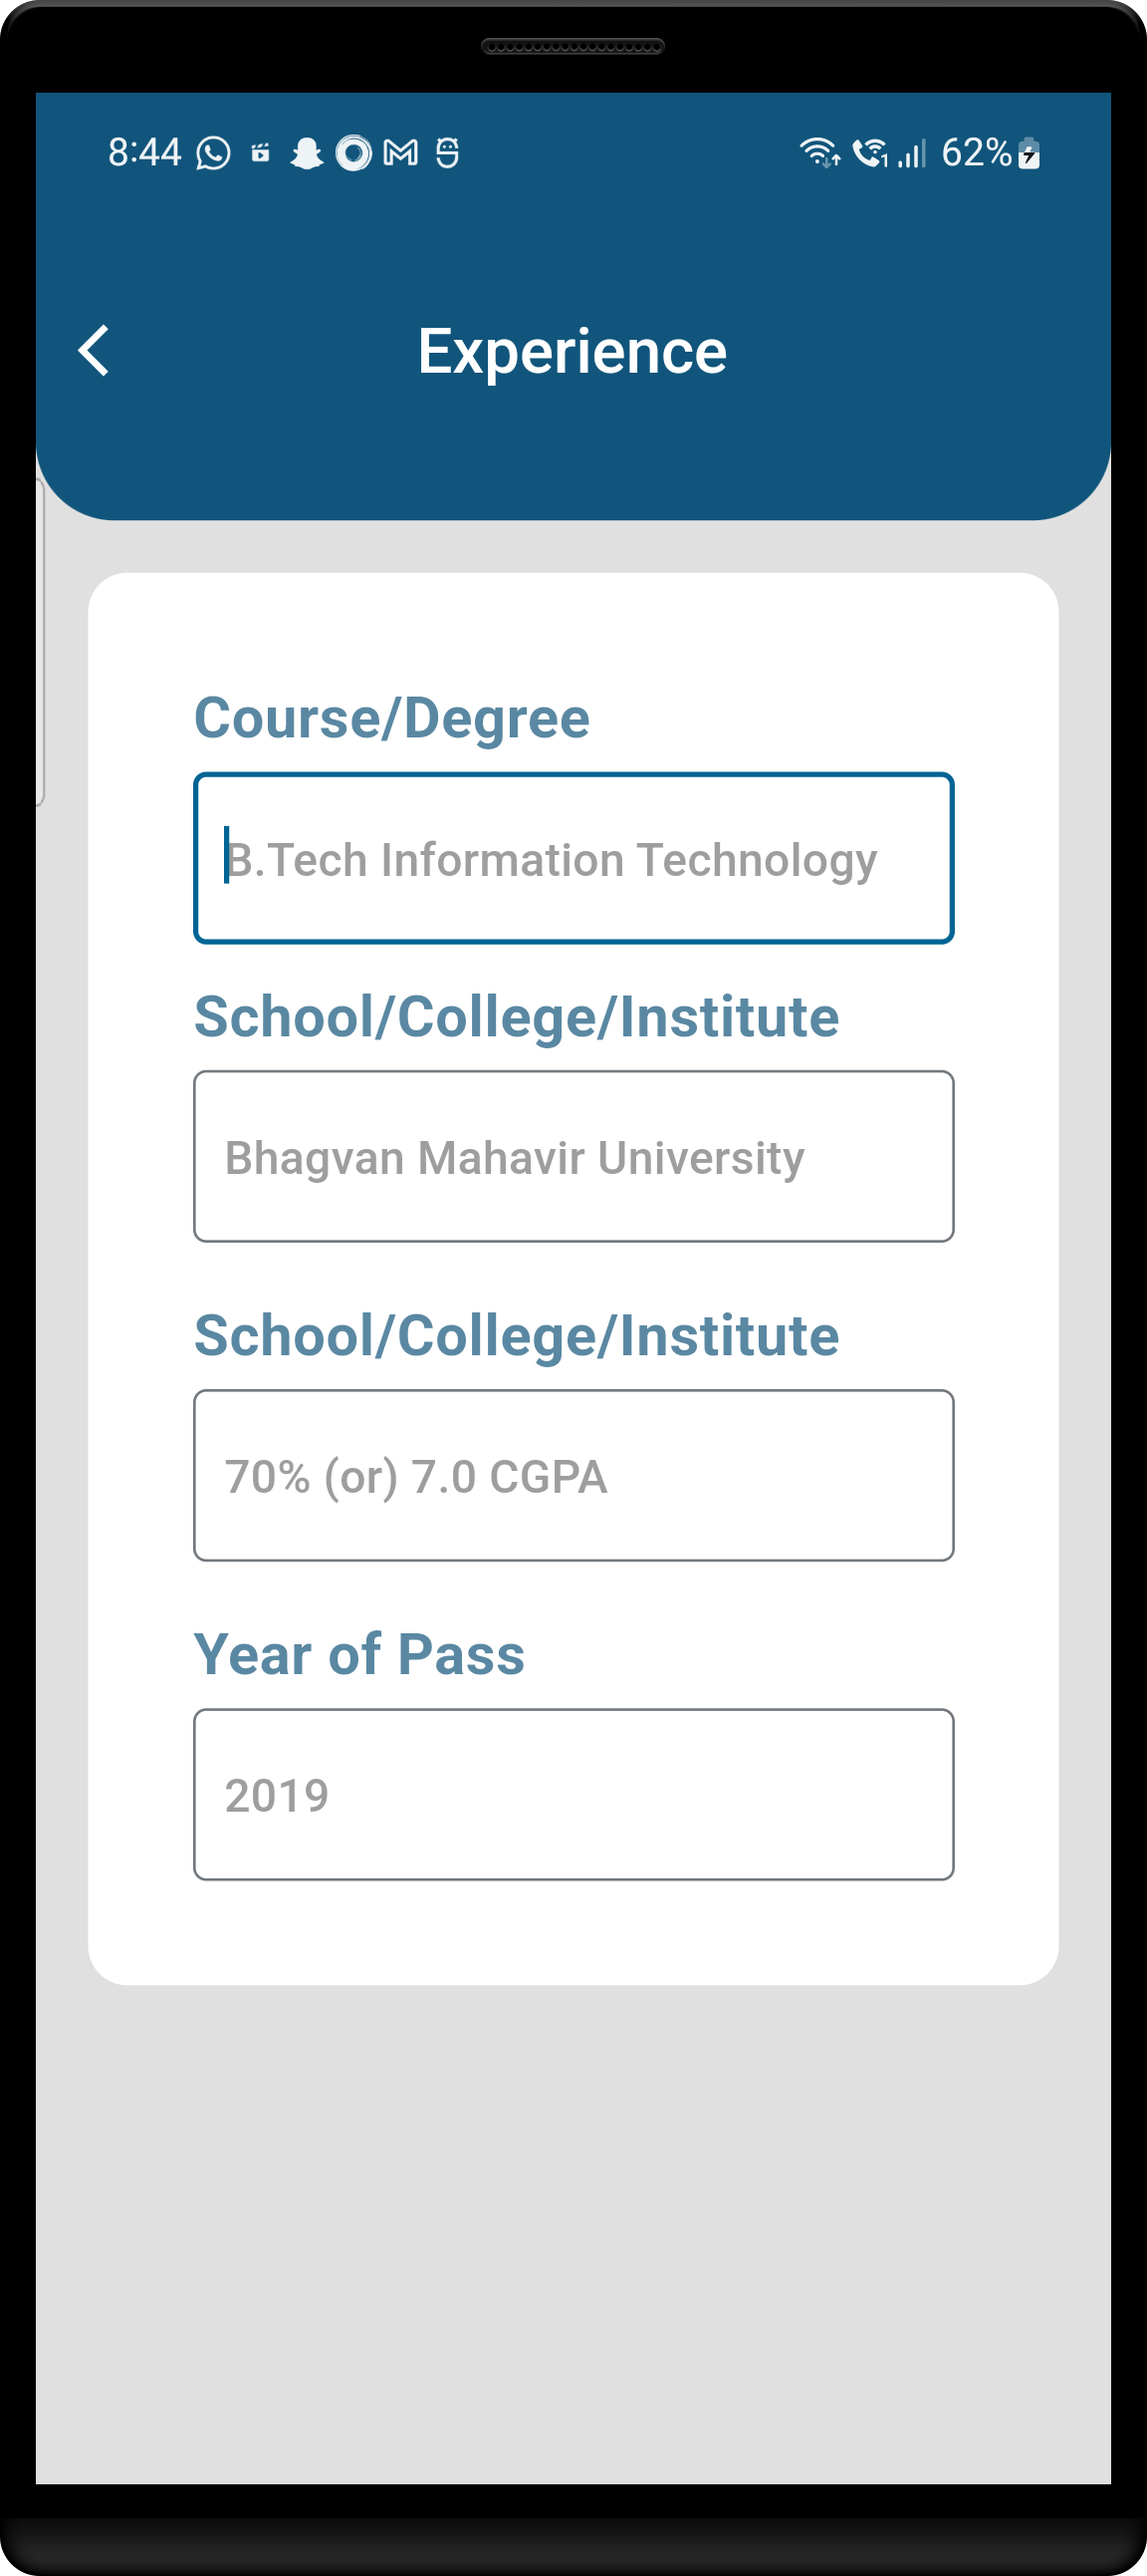
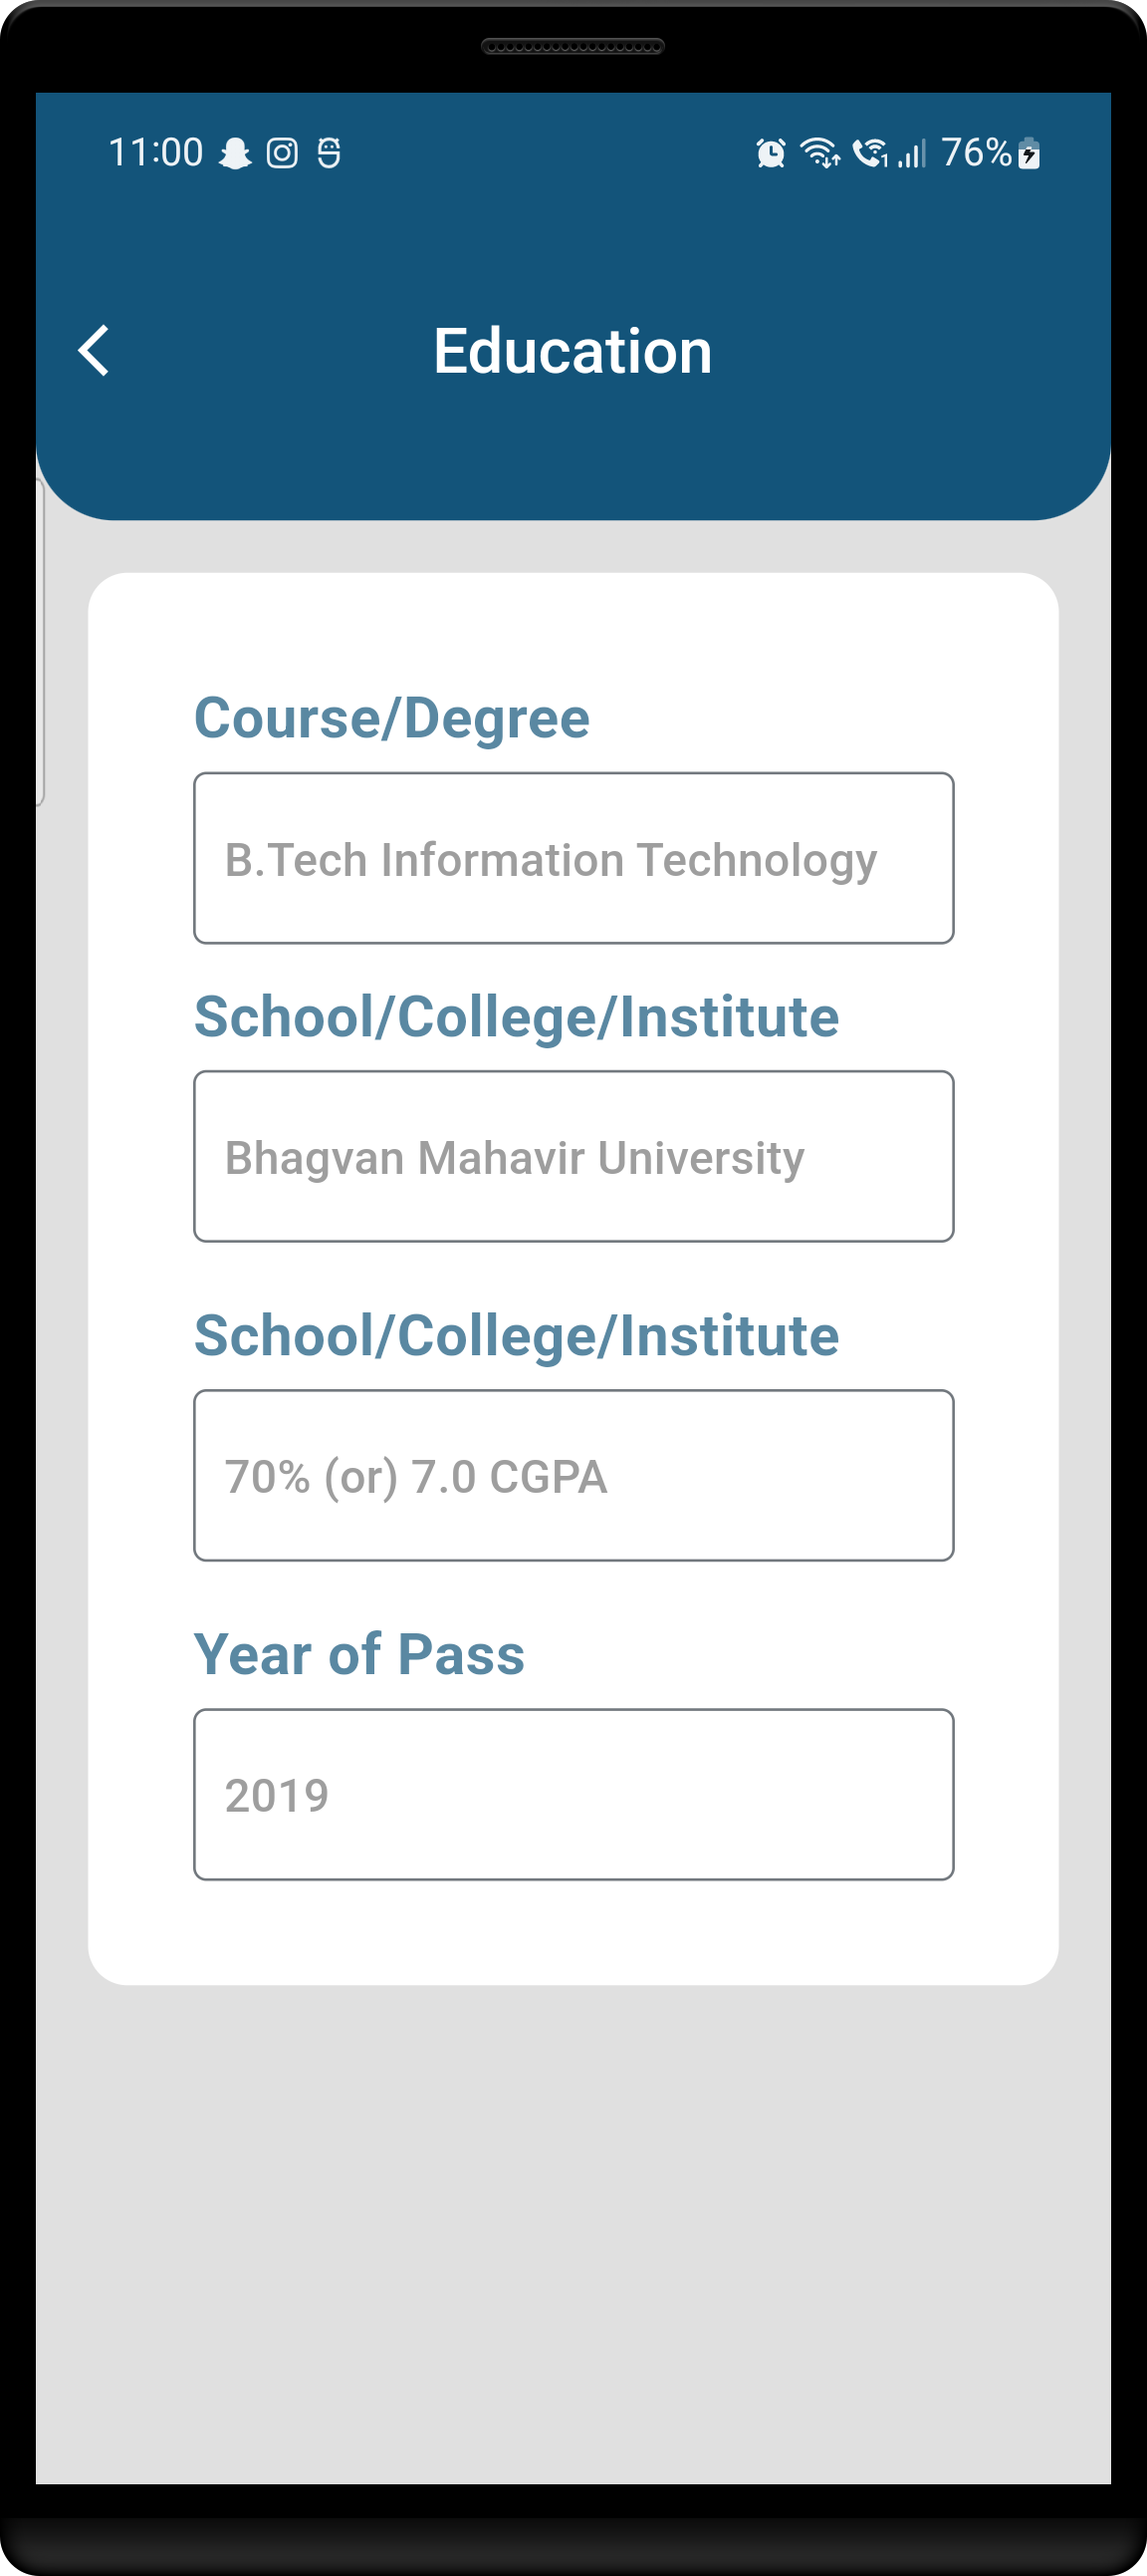
KK | 25/04/2023 | Achievment page updated & pdf page updated

diff --git a/lib/views/screens/pdfPage.dart b/lib/views/screens/pdfPage.dart
@@ -26,45 +26,71 @@ class _pdf_pageState extends State<pdf_page> {
           height: double.infinity,
           width: double.infinity,
           alignment: pw.Alignment.center,
-          child: pw.Column(
-            mainAxisSize: pw.MainAxisSize.min,
+          child: pw.Row(
             children: [
-              pw.Container(
-                height: 250,
-                width: 250,
-                decoration: pw.BoxDecoration(
-                  shape: pw.BoxShape.circle,
-                  image: pw.DecorationImage(
-                    image: pw.MemoryImage(
-                      File(global.image!.path).readAsBytesSync(),
+              pw.Expanded(
+                flex: 1,
+                child: pw.Container(
+                  color: PdfColor.fromInt(0xff13547A),
+                  child: pw.Padding(
+                    padding: pw.EdgeInsets.all(10),
+                    child: pw.Column(
+                      mainAxisAlignment: pw.MainAxisAlignment.start,
+                      children: [
+                        pw.SizedBox(
+                          height: 15,
+                        ),
+                        pw.Container(
+                          height: 125,
+                          width: 125,
+                          decoration: pw.BoxDecoration(
+                            shape: pw.BoxShape.circle,
+                            image: pw.DecorationImage(
+                              image: pw.MemoryImage(
+                                File(global.image!.path).readAsBytesSync(),
+                              ),
+                            ),
+                          ),
+                        ),
+                        pw.SizedBox(
+                          height: 25,
+                        ),
+                        pw.Row(
+                          children: [
+                            pw.SizedBox(
+                              height: 10,
+                            ),
+                            pw.Expanded(
+                              child: pw.Text(
+                                "Name:",
+                                style: pw.TextStyle(
+                                  fontSize: 18,
+                                  color: PdfColors.white,
+                                  fontWeight: pw.FontWeight.bold,
+                                ),
+                              ),
+                            ),
+                            pw.Expanded(
+                              flex: 2,
+                              child: pw.Text(
+                                global.name!,
+                                style: pw.TextStyle(
+                                  fontSize: 16,
+                                  color: PdfColors.white,
+                                  fontWeight: pw.FontWeight.bold,
+                                ),
+                              ),
+                            ),
+                          ],
+                        ),
+                      ],
                     ),
                   ),
                 ),
               ),
-              pw.SizedBox(
-                height: 20,
-              ),
-              pw.SizedBox(
-                width: 300,
-                child: pw.Row(
-                  mainAxisAlignment: pw.MainAxisAlignment.spaceBetween,
-                  children: [
-                    pw.Text(
-                      "Name :",
-                      style: pw.TextStyle(
-                        fontSize: 28,
-                        color: PdfColors.red,
-                      ),
-                    ),
-                    pw.Text(
-                      global.name!,
-                      style: pw.TextStyle(
-                        fontSize: 28,
-                        color: PdfColors.red,
-                      ),
-                    ),
-                  ],
-                ),
+              pw.Expanded(
+                flex: 2,
+                child: pw.Container(),
               ),
             ],
           ),

diff --git a/lib/views/screens/achievements.dart b/lib/views/screens/achievements.dart
@@ -1,0 +1,115 @@
+import 'package:flutter/cupertino.dart';
+import 'package:flutter/material.dart';
+
+import '../../utils/routes_utils.dart';
+import '../../utils/theme_utils.dart';
+import '../components/Mybackicon.dart';
+
+class achievements extends StatefulWidget {
+  const achievements({Key? key}) : super(key: key);
+
+  @override
+  State<achievements> createState() => _achievementsState();
+}
+
+class _achievementsState extends State<achievements> {
+  List<String> MyTextfild = [];
+  int index = 0;
+  @override
+  Widget build(BuildContext context) {
+    return Scaffold(
+      appBar: AppBar(
+        leading: Mybackicon(),
+        title: Text(
+          "Achievements",
+          style: appBarTitleStyle,
+        ),
+        toolbarHeight: 130,
+        shape: RoundedRectangleBorder(
+          borderRadius: BorderRadius.only(
+            bottomLeft: Radius.circular(30),
+            bottomRight: Radius.circular(30),
+          ),
+        ),
+        centerTitle: true,
+        backgroundColor: Color(0xff13547A),
+      ),
+      body: Padding(
+        padding: EdgeInsets.all(18),
+        child: Container(
+          width: double.infinity,
+          padding: EdgeInsets.all(20),
+          decoration: BoxDecoration(
+              borderRadius: BorderRadius.circular(15), color: Colors.white),
+          child: Column(
+            mainAxisSize: MainAxisSize.min,
+            children: [
+              Text(
+                "Enter your Achievements",
+                style: TextStyle(
+                  fontSize: 22,
+                  fontWeight: FontWeight.bold,
+                  letterSpacing: 1,
+                  color: Colors.grey,
+                ),
+              ),
+              const SizedBox(
+                height: 15,
+              ),
+              ...MyTextfild.map(
+                (e) => IndexedStack(
+                  index: index,
+                  children: [
+                    Row(
+                      children: [
+                        Expanded(
+                          child: TextField(
+                            keyboardType: TextInputType.text,
+                            decoration: InputDecoration(
+                              hintText: "Exceeded sales 17% average",
+                              hintStyle: TextStyle(
+                                color: Colors.grey,
+                              ),
+                            ),
+                          ),
+                        ),
+                        IconButton(
+                          onPressed: () {
+                            setState(() {
+                              MyTextfild.removeAt(index);
+                            });
+                          },
+                          icon: Icon(Icons.delete),
+                        ),
+                      ],
+                    ),
+                  ],
+                ),
+              ).toList(),
+              const SizedBox(
+                height: 15,
+              ),
+              Row(
+                children: [
+                  Expanded(
+                    child: FloatingActionButton(
+                      onPressed: () {
+                        setState(() {
+                          MyTextfild.add("");
+                        });
+                      },
+                      child: Icon(
+                        CupertinoIcons.plus,
+                      ),
+                    ),
+                  ),
+                ],
+              ),
+            ],
+          ),
+        ),
+      ),
+      backgroundColor: Colors.grey.shade300,
+    );
+  }
+}

diff --git a/lib/main.dart b/lib/main.dart
@@ -1,7 +1,8 @@
 import 'package:flutter/material.dart';
 import 'package:resume_builder_app/utils/routes_utils.dart';
+import 'package:resume_builder_app/views/screens/achievements.dart';
 import 'package:resume_builder_app/views/screens/contact_info.dart';
-import 'package:resume_builder_app/views/screens/experience.dart';
+import 'package:resume_builder_app/views/screens/education.dart';
 import 'package:resume_builder_app/views/screens/home_page.dart';
 import 'package:resume_builder_app/views/screens/pdfPage.dart';
 import 'package:resume_builder_app/views/screens/personal_details.dart';
@@ -27,8 +28,9 @@ class MyApp extends StatelessWidget {
         MyRoutes.pdfPage: (context) => const pdf_page(),
         MyRoutes.buildOptions[0].route: (context) => const contact_info(),
         MyRoutes.buildOptions[2].route: (context) => const personal_details(),
-        MyRoutes.buildOptions[4].route: (context) => const experience(),
+        MyRoutes.buildOptions[3].route: (context) => const education(),
         MyRoutes.buildOptions[5].route: (context) => const technicalskills(),
+        MyRoutes.buildOptions[8].route: (context) => const achievements(),
       },
     );
   }

diff --git a/lib/views/screens/education.dart b/lib/views/screens/education.dart
@@ -3,14 +3,14 @@ import 'package:flutter/material.dart';
 import '../../utils/theme_utils.dart';
 import '../components/Mybackicon.dart';
 
-class experience extends StatefulWidget {
-  const experience({Key? key}) : super(key: key);
+class education extends StatefulWidget {
+  const education({Key? key}) : super(key: key);
 
   @override
-  State<experience> createState() => _experienceState();
+  State<education> createState() => _educationState();
 }
 
-class _experienceState extends State<experience> {
+class _educationState extends State<education> {
   @override
   Widget build(BuildContext context) {
     Size s = MediaQuery.of(context).size;
@@ -18,7 +18,7 @@ class _experienceState extends State<experience> {
       appBar: AppBar(
         leading: Mybackicon(),
         title: Text(
-          "Experience",
+          "Education",
           style: appBarTitleStyle,
         ),
         toolbarHeight: 130,
